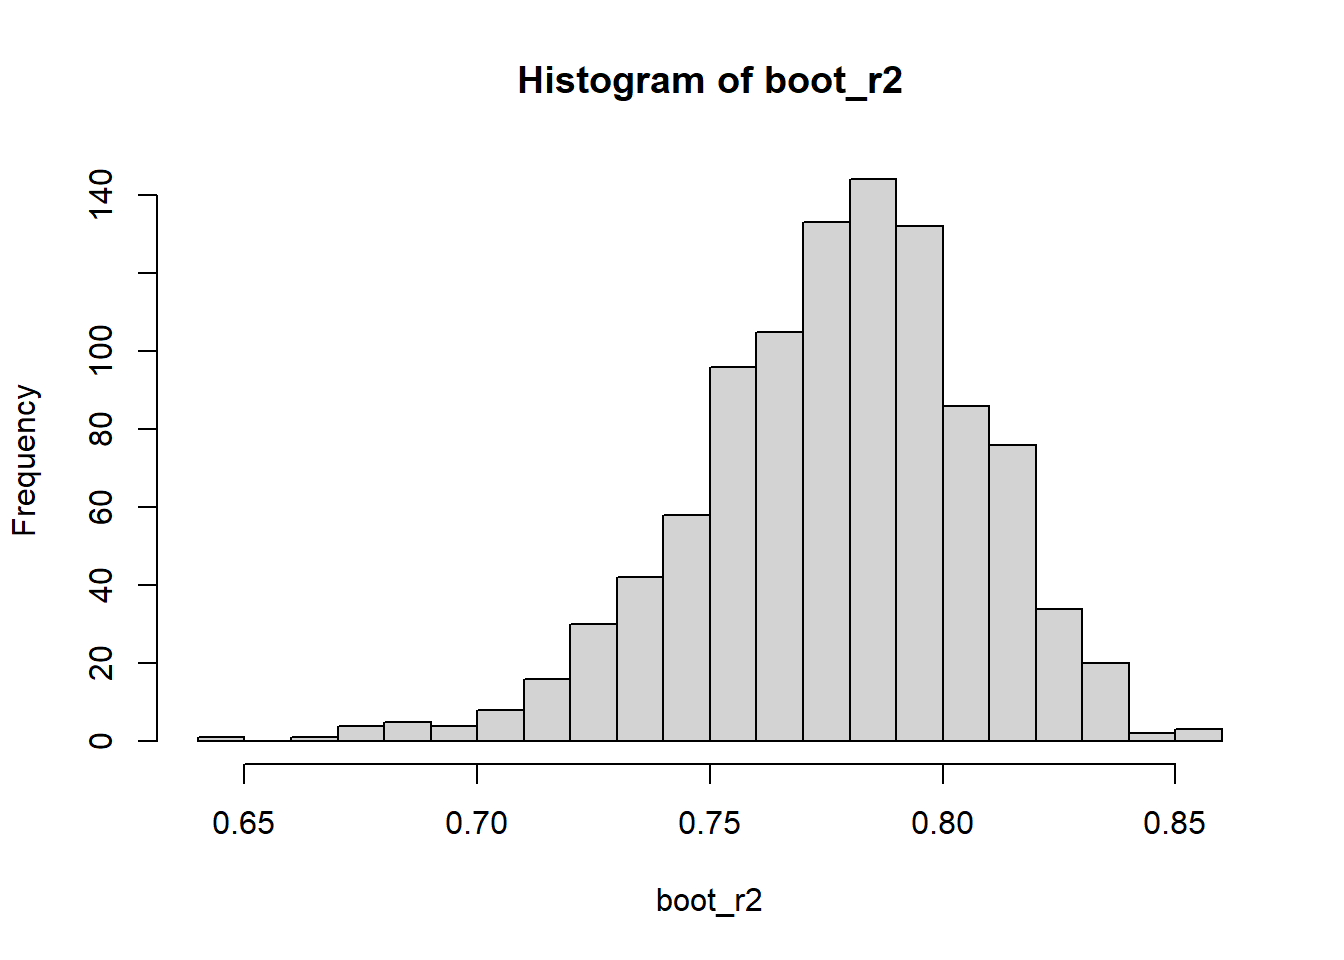
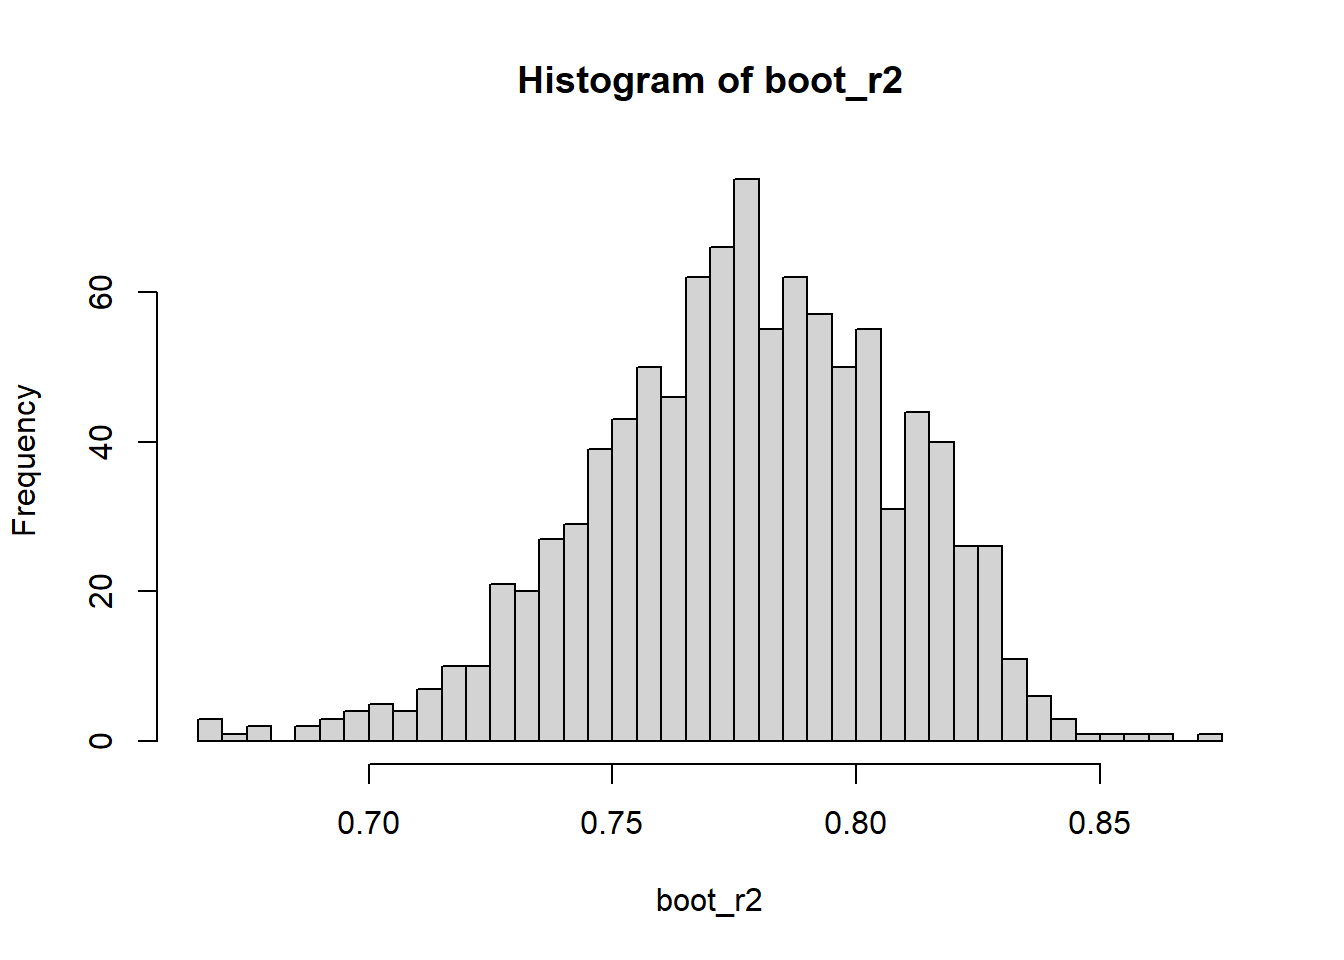
dia 1

diff --git a/notes/día-2-mañana-conexión-entre-diseños-experimentales-y-modelos-estadísticos..html b/notes/día-2-mañana-conexión-entre-diseños-experimentales-y-modelos-estadísticos..html
@@ -380,7 +380,7 @@ of animals studied for the same timeframe).
 In a laboratory setting,this could be a day or a week where the scientists
 run the experiment.</p>
 <p><img src="figures/designs_rcbd.PNG" alt="" width="640" style="display: block; margin: auto;" /></p>
-<p><div style="text-align: center; margin: 15px 0;">       <button type="button" style="background-color: #e7c6ff; border: 1px solid #d1a8f0; padding: 6px 12px; cursor: pointer; border-radius: 4px; font-weight: 500;" onclick="document.getElementById('modal_953822').style.display='block'">RCBD example for animal science.</button>     </div>     <div id="modal_953822" style="display:none; position:fixed; z-index:9999; left:0; top:0; width:100%; height:100%; background-color:rgba(0,0,0,0.5); text-align: left;">       <div style="background-color:#fff; margin:15% auto; padding:20px; border:1px solid #888; width:80%; max-width:600px; border-radius:8px; font-family: sans-serif;">         <span onclick="document.getElementById('modal_953822').style.display='none'" style="color:#aaa; float:right; font-size:28px; font-weight:bold; cursor:pointer;">&times;</span>         <p style="margin-top: 10px; font-size: 16px;">Here is what an RCBD for a barn experiment looks like:</p>         <div style="text-align: center; margin-top: 15px;">                           <img src="figures/pigs_rcbd.PNG" style="max-width: 100%; height: auto; border-radius: 4px;">                         </div>       </div>     </div></p>
+<p><div style="text-align: center; margin: 15px 0;">       <button type="button" style="background-color: #e7c6ff; border: 1px solid #d1a8f0; padding: 6px 12px; cursor: pointer; border-radius: 4px; font-weight: 500;" onclick="document.getElementById('modal_106664').style.display='block'">RCBD example for animal science.</button>     </div>     <div id="modal_106664" style="display:none; position:fixed; z-index:9999; left:0; top:0; width:100%; height:100%; background-color:rgba(0,0,0,0.5); text-align: left;">       <div style="background-color:#fff; margin:15% auto; padding:20px; border:1px solid #888; width:80%; max-width:600px; border-radius:8px; font-family: sans-serif;">         <span onclick="document.getElementById('modal_106664').style.display='none'" style="color:#aaa; float:right; font-size:28px; font-weight:bold; cursor:pointer;">&times;</span>         <p style="margin-top: 10px; font-size: 16px;">Here is what an RCBD for a barn experiment looks like:</p>         <div style="text-align: center; margin-top: 15px;">                           <img src="figures/pigs_rcbd.PNG" style="max-width: 100%; height: auto; border-radius: 4px;">                         </div>       </div>     </div></p>
 <p>All observations from the same block shared the same conditions and thus,
 shared a random effect for the intercept.
 Said common random effect for the intercept means that observations
@@ -581,7 +581,7 @@ randomly assigned to its experimental units (split plots), which are
 subsections of the whole plots. Note: we could think of the whole plots acting
 as “mini blocks” for the second treatment factor.</p>
 <p><img src="figures/designs_splitplot.PNG" alt="" width="640" style="display: block; margin: auto;" /></p>
-<p><div style="text-align: center; margin: 15px 0;">       <button type="button" style="background-color: #e7c6ff; border: 1px solid #d1a8f0; padding: 6px 12px; cursor: pointer; border-radius: 4px; font-weight: 500;" onclick="document.getElementById('modal_900840').style.display='block'">Split-plot example for animal science.</button>     </div>     <div id="modal_900840" style="display:none; position:fixed; z-index:9999; left:0; top:0; width:100%; height:100%; background-color:rgba(0,0,0,0.5); text-align: left;">       <div style="background-color:#fff; margin:15% auto; padding:20px; border:1px solid #888; width:80%; max-width:600px; border-radius:8px; font-family: sans-serif;">         <span onclick="document.getElementById('modal_900840').style.display='none'" style="color:#aaa; float:right; font-size:28px; font-weight:bold; cursor:pointer;">&times;</span>         <p style="margin-top: 10px; font-size: 16px;">Here is what a split-plot for a barn experiment looks like:</p>         <div style="text-align: center; margin-top: 15px;">                           <img src="figures/pigs_splitplot.PNG" style="max-width: 100%; height: auto; border-radius: 4px;">                         </div>       </div>     </div></p>
+<p><div style="text-align: center; margin: 15px 0;">       <button type="button" style="background-color: #e7c6ff; border: 1px solid #d1a8f0; padding: 6px 12px; cursor: pointer; border-radius: 4px; font-weight: 500;" onclick="document.getElementById('modal_845824').style.display='block'">Split-plot example for animal science.</button>     </div>     <div id="modal_845824" style="display:none; position:fixed; z-index:9999; left:0; top:0; width:100%; height:100%; background-color:rgba(0,0,0,0.5); text-align: left;">       <div style="background-color:#fff; margin:15% auto; padding:20px; border:1px solid #888; width:80%; max-width:600px; border-radius:8px; font-family: sans-serif;">         <span onclick="document.getElementById('modal_845824').style.display='none'" style="color:#aaa; float:right; font-size:28px; font-weight:bold; cursor:pointer;">&times;</span>         <p style="margin-top: 10px; font-size: 16px;">Here is what a split-plot for a barn experiment looks like:</p>         <div style="text-align: center; margin-top: 15px;">                           <img src="figures/pigs_splitplot.PNG" style="max-width: 100%; height: auto; border-radius: 4px;">                         </div>       </div>     </div></p>
 <p>Again, all observations from the same block share the same random effect and are correlated.<br />
 Likewise, all observations from the same whole plot (i.e., “mini block”) are correlated.</p>
 <p><span class="math display">\[y_{ijk} = \mu + \tau_i + \alpha_j + (\tau \alpha)_{ij} + u_k + v_{i \vert k} + \varepsilon_{ijk},\\

diff --git a/notes/día-1-mañana-introducción-y-repaso..html b/notes/día-1-mañana-introducción-y-repaso..html
@@ -321,7 +321,7 @@ code span.wa { color: #60a0b0; font-weight: bold; font-style: italic; } /* Warni
 <li>What is a statistical model?</li>
 </ul>
 <blockquote>
-<p>Scientific models are, above all erlse, abstractions. They are statements about the operation of nature that purposefully omit many details and thus achieve insight that would otherwise be discursively obscured. They provide unambiguous statements of what we believe is important. A key principle in modeling and statistics – in science for that matter – is the need to reduce the dimensions of a problem. (<a href="https://www.amazon.com/dp/B0DVWZ4YWV?lv=shuf&amp;channelId=500&amp;plpRedirect=mhFallback">Hooten and Hobbs, 2025</a>)</p>
+<p>Scientific models are, above all else, abstractions. They are statements about the operation of nature that purposefully omit many details and thus achieve insight that would otherwise be discursively obscured. They provide unambiguous statements of what we believe is important. A key principle in modeling and statistics – in science for that matter – is the need to reduce the dimensions of a problem. (<a href="https://www.amazon.com/dp/B0DVWZ4YWV?lv=shuf&amp;channelId=500&amp;plpRedirect=mhFallback">Hooten and Hobbs, 2025</a>)</p>
 </blockquote>
 <ul>
 <li>A statistical model combines <strong>deterministic components</strong> with <strong>stochastic components</strong>.</li>
@@ -407,7 +407,7 @@ The probability distribution form makes it easier to switch to other distributio
 The formula for the variance of any random variable <span class="math inline">\(Y\)</span> is
 <span class="math display">\[Var(Y) = E(Y^2) - E(Y)^2.\]</span></p>
 <center>
-<img src="figures/normal_univariate.jpg" />
+<img src="figures/normal_univariate.png" />
 </center>
 <p>Discuss in the plot above:</p>
 <ul>
@@ -422,7 +422,7 @@ Essentially, it quantifies the relationship between their joint variability. The
 where the means of <span class="math inline">\(y_1\)</span> and <span class="math inline">\(y_2\)</span> are 10 and 8, respectively, and their covariance structure is represented in the variance-covariance matrix. Remember,</p>
 <p><span class="math display">\[\begin{bmatrix}y_1 \\ y_2 \end{bmatrix} \sim MVN \left( \begin{bmatrix} E(y_1) \\ E(y_2) \end{bmatrix} , \begin{bmatrix} Var(y_1) &amp; Cov(y_1, y_2) \\ Cov(y_2,y_2) &amp; Var(y_2) \end{bmatrix} \right).\]</span></p>
 <center>
-<img src="figures/normal_multivariate.jpg" />
+<img src="figures/normal_multivariate.png" />
 </center>
 <p>Discuss in the plot above:</p>
 <ul>
@@ -430,7 +430,7 @@ where the means of <span class="math inline">\(y_1\)</span> and <span class="mat
 <li>Variance</li>
 <li>Covariance</li>
 </ul>
-<p><div style="text-align: center; margin: 15px 0;">       <button type="button" style="background-color: #e7c6ff; border: 1px solid #d1a8f0; padding: 6px 12px; cursor: pointer; border-radius: 4px; font-weight: 500;" onclick="document.getElementById('modal_832804').style.display='block'">What would two random variables with zero covariance look like?</button>     </div>     <div id="modal_832804" style="display:none; position:fixed; z-index:9999; left:0; top:0; width:100%; height:100%; background-color:rgba(0,0,0,0.5); text-align: left;">       <div style="background-color:#fff; margin:15% auto; padding:20px; border:1px solid #888; width:80%; max-width:600px; border-radius:8px; font-family: sans-serif;">         <span onclick="document.getElementById('modal_832804').style.display='none'" style="color:#aaa; float:right; font-size:28px; font-weight:bold; cursor:pointer;">&times;</span>         <p style="margin-top: 10px; font-size: 16px;">Here is what zero covariance looks like:</p>         <div style="text-align: center; margin-top: 15px;">                           <img src="figures/normal_multivariate_0cov.jpg" style="max-width: 100%; height: auto; border-radius: 4px;">                         </div>       </div>     </div></p>
+<p><div style="text-align: center; margin: 15px 0;">       <button type="button" style="background-color: #e7c6ff; border: 1px solid #d1a8f0; padding: 6px 12px; cursor: pointer; border-radius: 4px; font-weight: 500;" onclick="document.getElementById('modal_557662').style.display='block'">What would two random variables with zero covariance look like?</button>     </div>     <div id="modal_557662" style="display:none; position:fixed; z-index:9999; left:0; top:0; width:100%; height:100%; background-color:rgba(0,0,0,0.5); text-align: left;">       <div style="background-color:#fff; margin:15% auto; padding:20px; border:1px solid #888; width:80%; max-width:600px; border-radius:8px; font-family: sans-serif;">         <span onclick="document.getElementById('modal_557662').style.display='none'" style="color:#aaa; float:right; font-size:28px; font-weight:bold; cursor:pointer;">&times;</span>         <p style="margin-top: 10px; font-size: 16px;">Here is what zero covariance looks like:</p>         <div style="text-align: center; margin-top: 15px;">                           <img src="figures/normal_multivariate_0cov.png" style="max-width: 100%; height: auto; border-radius: 4px;">                         </div>       </div>     </div></p>
 <p><strong>On the variance-covariance matrix:</strong></p>
 <p>The variance-covariance matrix contains information about the covariance between all data points in the model. Consider the variance covariance matrix is a <span class="math inline">\(n \times n\)</span> square of tiles, where <span class="math inline">\(n\)</span> is the total number of observations.
 Each tile contains the information about the correlation between the data point <span class="math inline">\(i\)</span> (i.e., tile row number) and data point <span class="math inline">\(i&#39;\)</span> (i.e., tile column number).

diff --git a/notes/día-2-tarde-conexión-entre-diseños-experimentales-y-modelos-estadísticos..html b/notes/día-2-tarde-conexión-entre-diseños-experimentales-y-modelos-estadísticos..html
@@ -294,7 +294,7 @@ However, an important difference is that time cannot be randomly allocated,
 because it is unidirectional!
 The independence assumption does not hold and should be included in the model.</p>
 <p><img src="figures/designs_repeated.PNG" alt="" width="640" style="display: block; margin: auto;" /></p>
-<p><div style="text-align: center; margin: 15px 0;">       <button type="button" style="background-color: #e7c6ff; border: 1px solid #d1a8f0; padding: 6px 12px; cursor: pointer; border-radius: 4px; font-weight: 500;" onclick="document.getElementById('modal_113530').style.display='block'">Repeated measures example for animal science.</button>     </div>     <div id="modal_113530" style="display:none; position:fixed; z-index:9999; left:0; top:0; width:100%; height:100%; background-color:rgba(0,0,0,0.5); text-align: left;">       <div style="background-color:#fff; margin:15% auto; padding:20px; border:1px solid #888; width:80%; max-width:600px; border-radius:8px; font-family: sans-serif;">         <span onclick="document.getElementById('modal_113530').style.display='none'" style="color:#aaa; float:right; font-size:28px; font-weight:bold; cursor:pointer;">&times;</span>         <p style="margin-top: 10px; font-size: 16px;">Here is what a repeated measures for a barn experiment looks like:</p>         <div style="text-align: center; margin-top: 15px;">                           <img src="figures/pigs_repeated.PNG" style="max-width: 100%; height: auto; border-radius: 4px;">                         </div>       </div>     </div></p>
+<p><div style="text-align: center; margin: 15px 0;">       <button type="button" style="background-color: #e7c6ff; border: 1px solid #d1a8f0; padding: 6px 12px; cursor: pointer; border-radius: 4px; font-weight: 500;" onclick="document.getElementById('modal_818771').style.display='block'">Repeated measures example for animal science.</button>     </div>     <div id="modal_818771" style="display:none; position:fixed; z-index:9999; left:0; top:0; width:100%; height:100%; background-color:rgba(0,0,0,0.5); text-align: left;">       <div style="background-color:#fff; margin:15% auto; padding:20px; border:1px solid #888; width:80%; max-width:600px; border-radius:8px; font-family: sans-serif;">         <span onclick="document.getElementById('modal_818771').style.display='none'" style="color:#aaa; float:right; font-size:28px; font-weight:bold; cursor:pointer;">&times;</span>         <p style="margin-top: 10px; font-size: 16px;">Here is what a repeated measures for a barn experiment looks like:</p>         <div style="text-align: center; margin-top: 15px;">                           <img src="figures/pigs_repeated.PNG" style="max-width: 100%; height: auto; border-radius: 4px;">                         </div>       </div>     </div></p>
 <p><span class="math display">\[y_{ijk} = \mu + \tau_i + \alpha_j + (\tau \alpha)_{ij} + u_{k} + v_{ijk} + \varepsilon_{ijk},\\
 u_{k} \sim N(0, \sigma^2_u),\]</span></p>
 <p>where <span class="math inline">\(y_{ijk}\)</span> is the observation for the <span class="math inline">\(i\)</span>th treatment, <span class="math inline">\(j\)</span>th time, in the <span class="math inline">\(k\)</span>th block,
